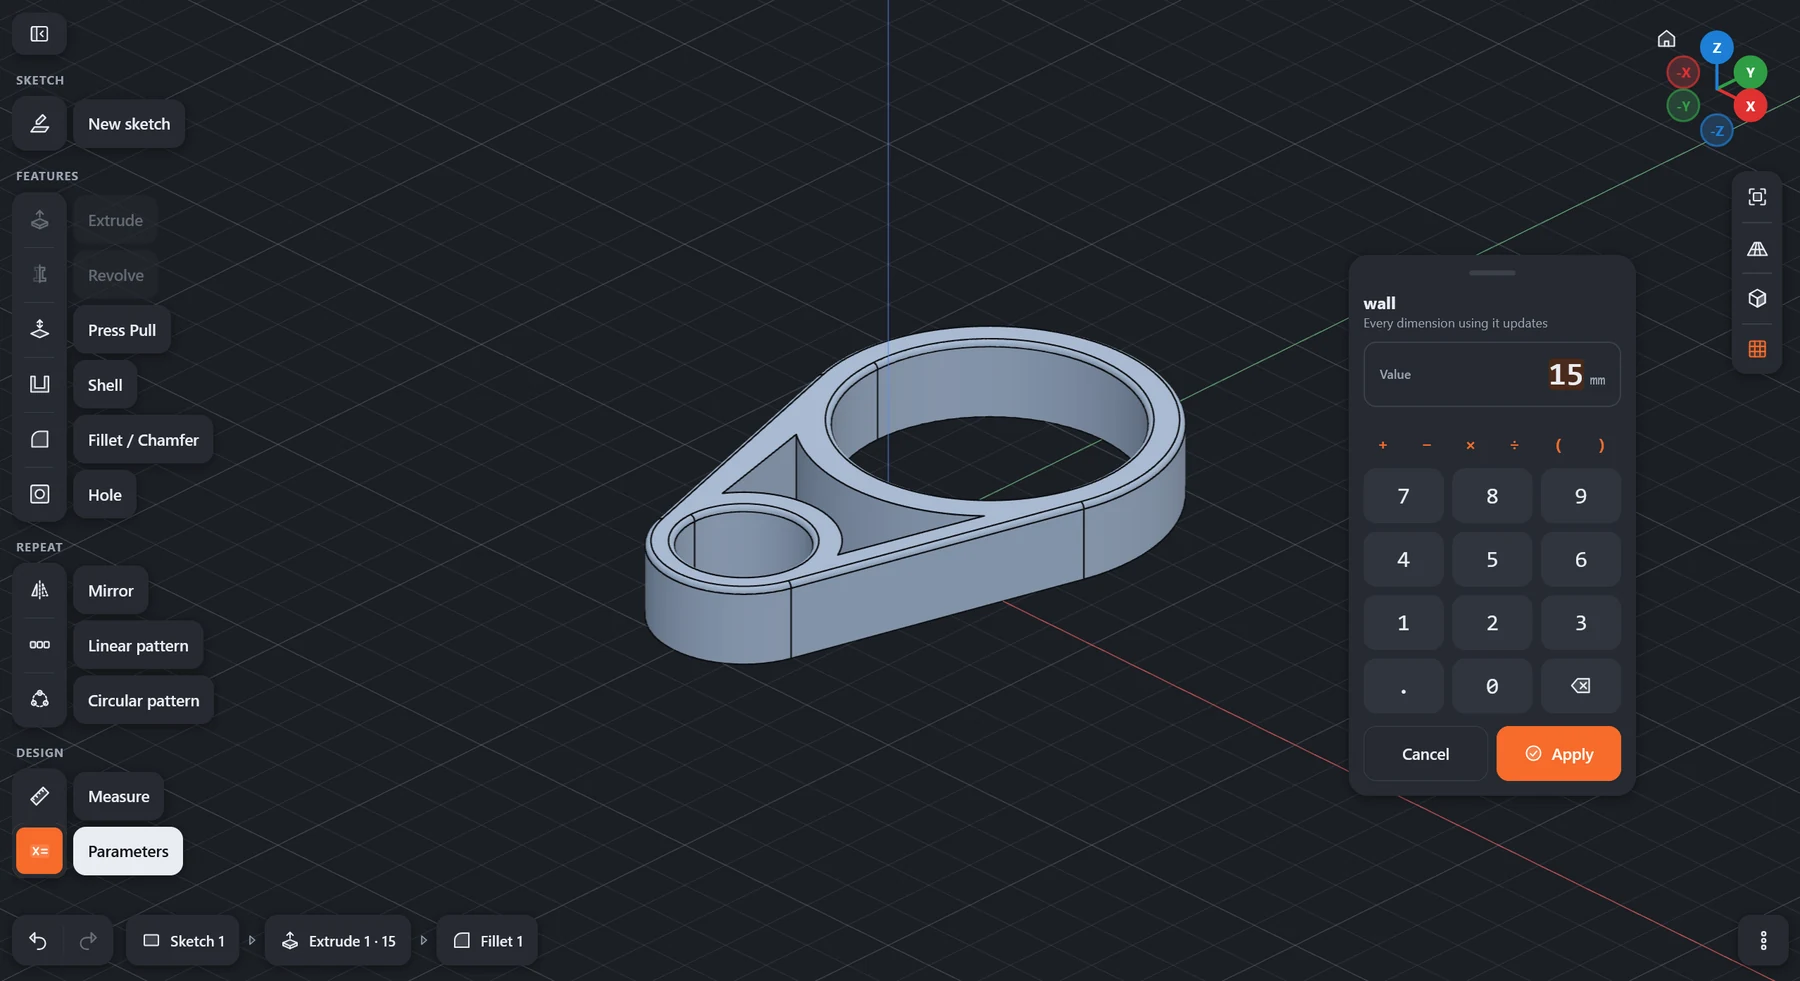
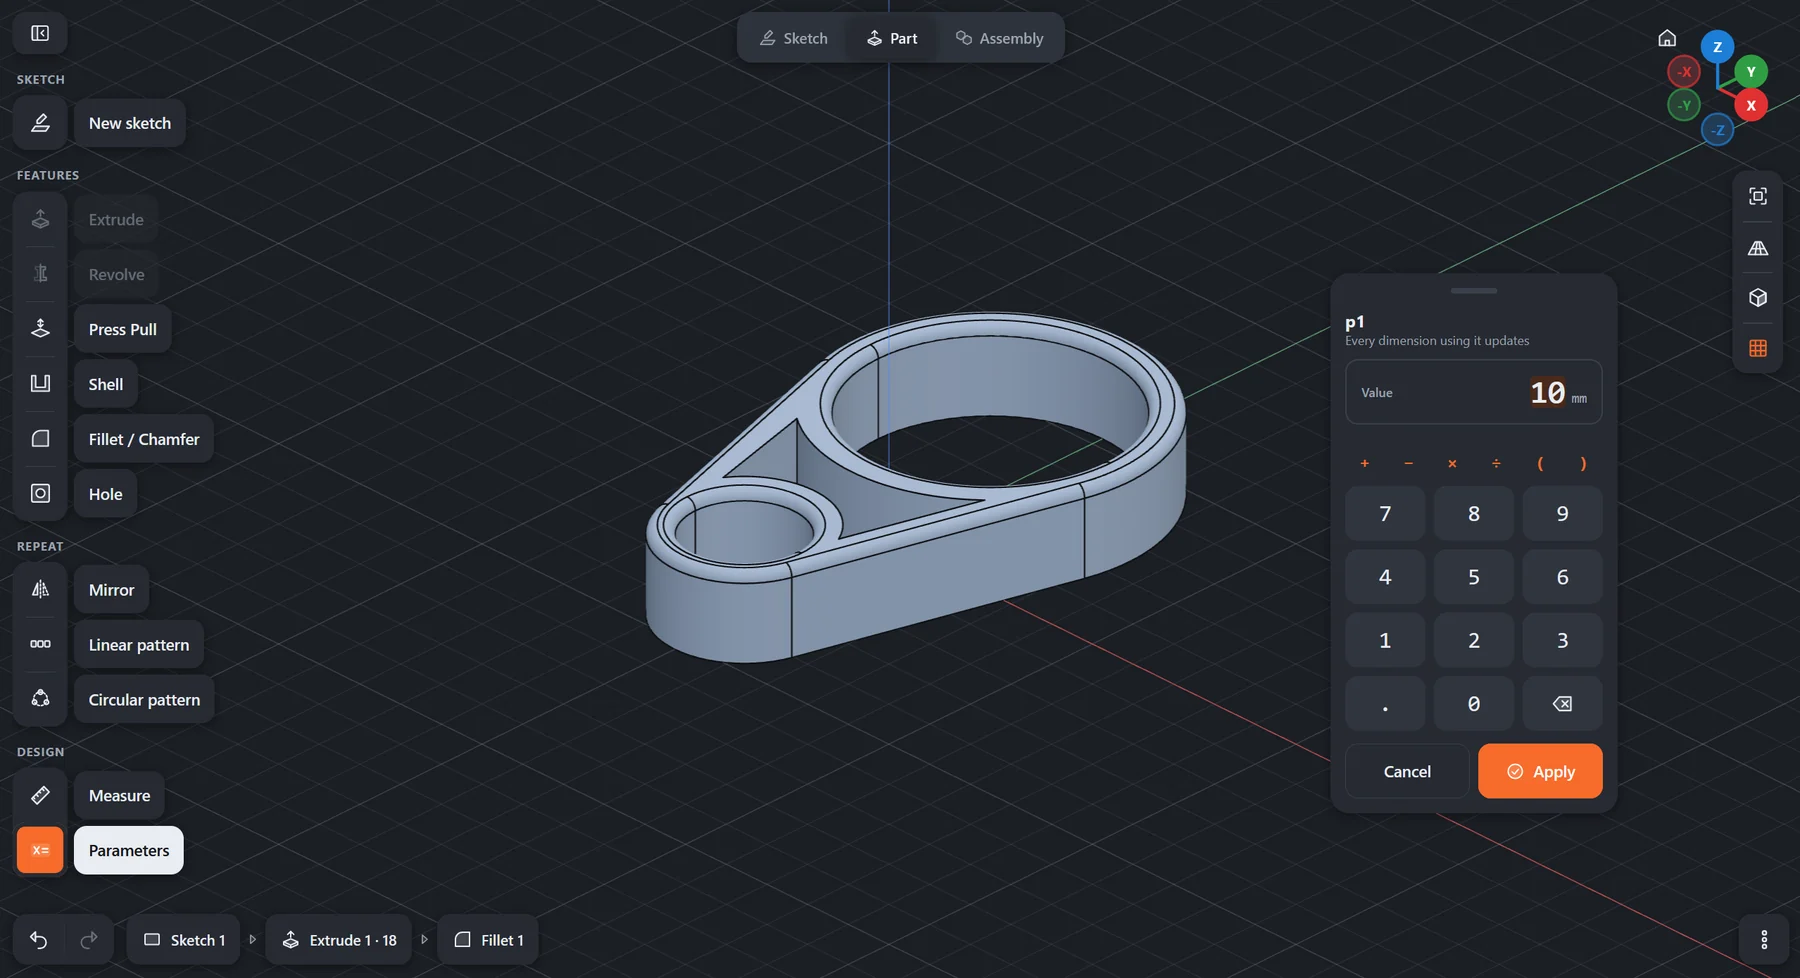
README: new screenshot (0.8, workspace bar)

diff --git a/README.md b/README.md
@@ -10,7 +10,7 @@
 </p>
 
 <p align="center">
-  <img src="docs/screenshot.webp" width="900" alt="WaffleCAD in the dark theme: a hollowed bracket, its wall parameter being edited on the keypad">
+  <img src="docs/screenshot.webp" width="900" alt="WaffleCAD in the dark theme: a filleted bracket with a pocket, a parameter being edited on the keypad, under the Sketch, Part and Assembly bar">
 </p>
 
 ## Features
